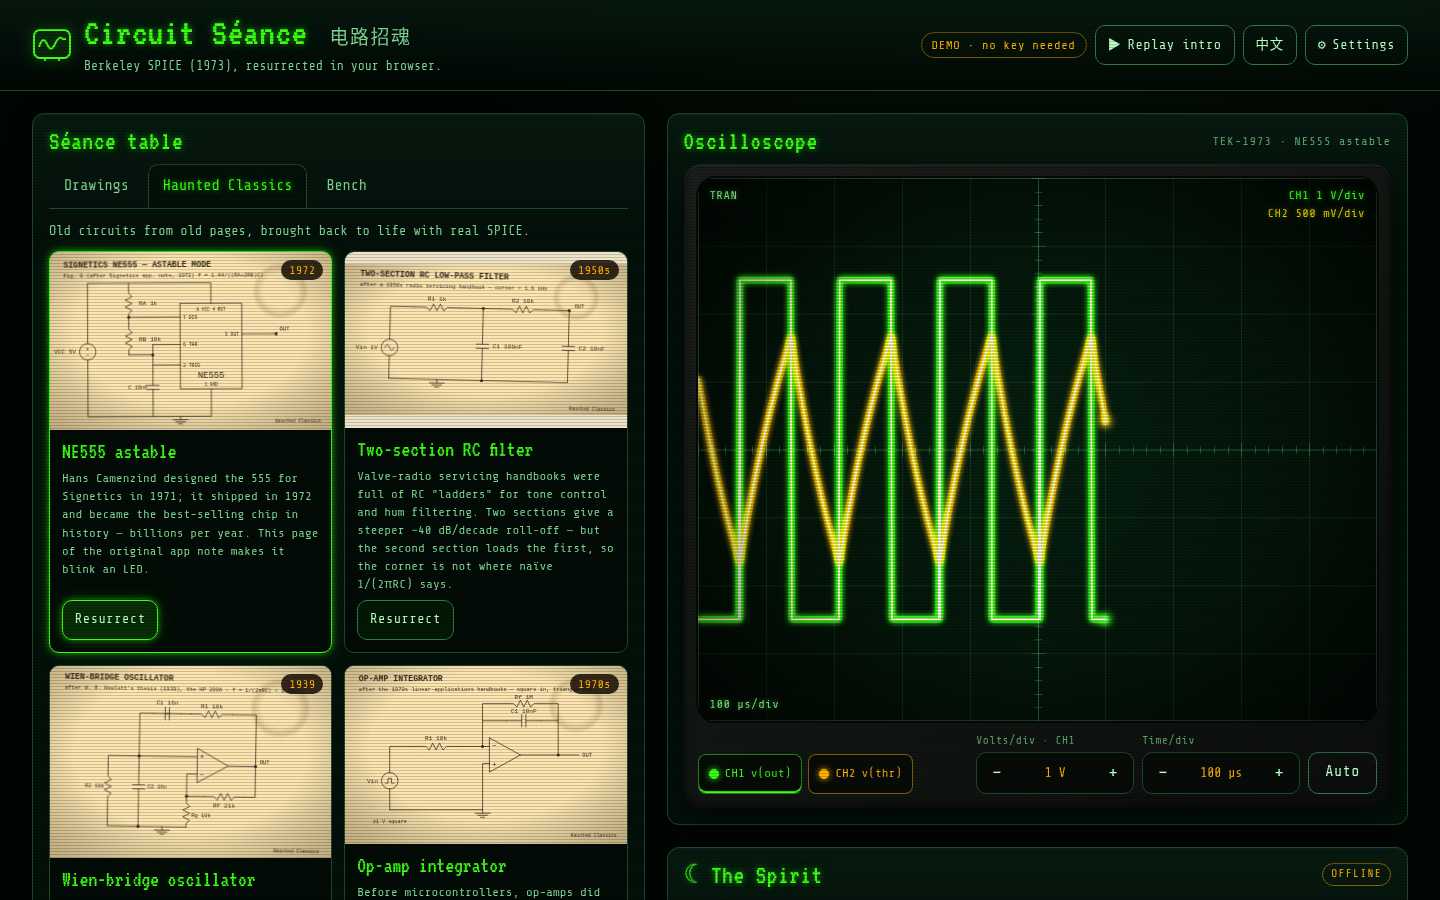
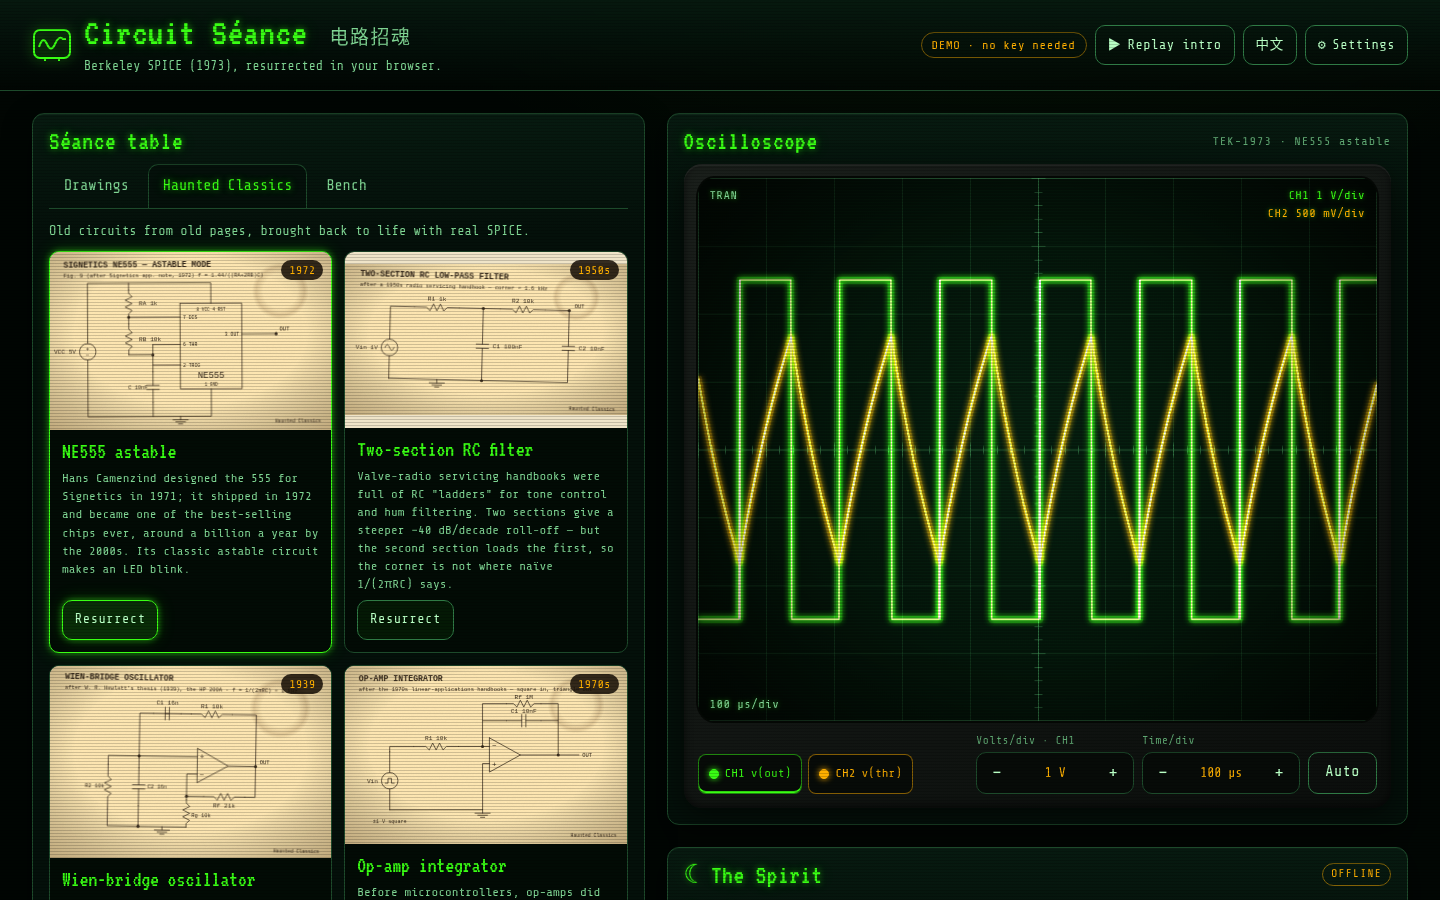
Spirit says 'still settling' for unsettled traces; refreshed screenshots; README e2e/BYOK notes

Changed region(s): [[0.4688, 0.28, 0.9688, 0.7156], [0.0312, 0.56, 0.2188, 0.6222]]

diff --git a/src/features/spirit/offline-explainer.ts b/src/features/spirit/offline-explainer.ts
@@ -142,13 +142,13 @@ function generic(m: Measurements, L: Lang): string {
         if (c.freq) bits.push(`periodic at ${eng(c.freq, 'Hz')}`);
         if (c.tau) bits.push(`τ ≈ ${eng(c.tau, 's')}`);
         if (c.overshootPct) bits.push(`overshoot ${c.overshootPct.toFixed(0)} %`);
-        if (!c.freq) bits.push(`settles at ${eng(c.final, c.unit)}`);
+        if (!c.freq) bits.push(c.tau && c.tau * 5 > m.span ? `still settling at the end of the window (${eng(c.final, c.unit)}, still moving)` : `settles at ${eng(c.final, c.unit)}`);
       } else {
         bits.push(`${eng(c.min, c.unit)} … ${eng(c.max, c.unit)}`);
         if (c.freq) bits.push(`周期信号，${eng(c.freq, 'Hz')}`);
         if (c.tau) bits.push(`τ ≈ ${eng(c.tau, 's')}`);
         if (c.overshootPct) bits.push(`过冲 ${c.overshootPct.toFixed(0)} %`);
-        if (!c.freq) bits.push(`最终值 ${eng(c.final, c.unit)}`);
+        if (!c.freq) bits.push(c.tau && c.tau * 5 > m.span ? `窗口结束时仍在趋稳（${eng(c.final, c.unit)}，仍在变化）` : `最终值 ${eng(c.final, c.unit)}`);
       }
       return `- ${c.name}: ${bits.join(', ')}`;
     })

diff --git a/README.md b/README.md
@@ -23,7 +23,7 @@ npm run build && npx vite preview      # → http://localhost:4173
 5. Hover the screen to read values with the cursor. With the screen focused, ↑/↓ change volts/div, ←/→ change time/div, keys 1–4 pick a channel, and `A` auto-scales.
 6. **中文** in the top bar switches the whole UI and the spirit to Chinese.
 
-Demo mode makes **zero network requests**. The Playwright suite blocks and records every non-localhost request and checks the list is empty. Add `?nointro` to the URL to skip the intro.
+Demo mode makes **zero network requests**. The Playwright suite blocks and records every non-localhost request and checks the list is empty. The BYOK path (photo → vision model → netlist → simulate → live spirit) is covered end-to-end against a mocked DashScope endpoint, and DashScope, OpenAI and Gemini all accept browser CORS preflights, so keys work straight from a static site. Add `?nointro` to the URL to skip the intro.
 
 **Optional (bring your own key):** ⚙ Settings → provider (**Qwen-VL / DashScope is the default**; OpenAI, Gemini and any OpenAI-compatible endpoint also work) → paste a key. That unlocks two things: **reading your own photo** of a hand-drawn circuit, and **asking the live spirit** about any circuit. The key is stored **only in this browser's `localStorage`** and sent only to the base URL you set. There is no server.
 
@@ -94,7 +94,7 @@ npm run dev                 # http://localhost:5173
 npm test                    # 105 unit + integration tests (vitest; integration runs the real engine)
 npm run build               # tsc -b + vite build → dist/ (static; the engine is a lazy ~20 MB chunk)
 npm run lint                # ESLint (type-aware) on src/
-npm run test:e2e            # Playwright (10 tests) against vite preview; set CHROMIUM_PATH if needed
+npm run test:e2e            # Playwright (12 tests) against vite preview; set CHROMIUM_PATH if needed
 npm run screenshots         # regenerate docs/screenshots/
 npm run verify:netlists     # every bundled netlist through ngspice in Node
 ```
